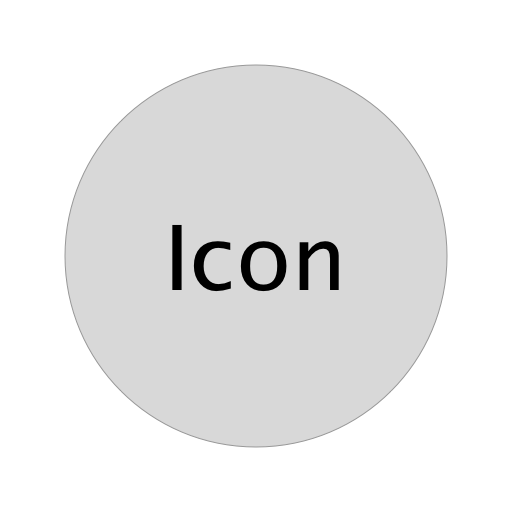
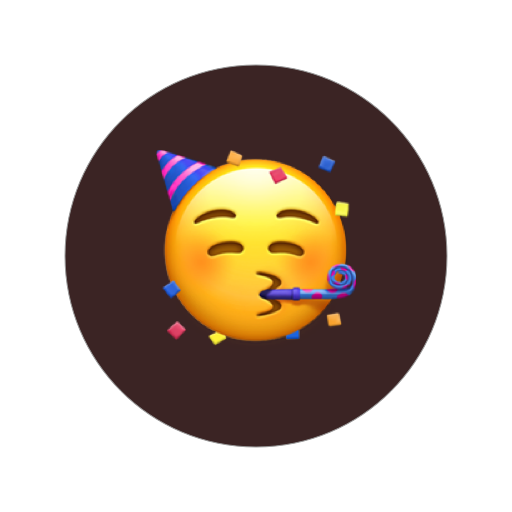
refine ui

diff --git a/src/components/sidebar/index.js b/src/components/sidebar/index.js
@@ -1,50 +1,53 @@
-import React, { useEffect } from "react";
+import React from "react";
 import { Input } from "antd";
 import styles from "./styles.module.scss";
 import { connect } from "react-redux";
 import { updatePosts, updateCurrentReadPostId } from "../../actions";
+import { posts } from "../../reducers/posts";
 
 const { Search } = Input;
 class Sidebar extends React.Component {
   componentDidMount() {
     this.props.dispatch(updatePosts());
   }
-  
-  render(){
+
+  render() {
+    const { posts: articles } = this.props;
     return (
-    <div className={styles.sidebar}>
-      <div className={styles.logoBox}>
-        <img
-          src={`${process.env.PUBLIC_URL}/icon.png`}
-          alt="icon"
-          className={styles.logo}
+      <div className={styles.sidebar}>
+        <div className={styles.logoBox}>
+          <img
+            src={`${process.env.PUBLIC_URL}/icon.png`}
+            alt="icon"
+            className={styles.logo}
+          />
+          <span className={styles.slogan}>こんにちは。</span>
+        </div>
+        <Search
+          placeholder="搜索"
+          onSearch={value => console.log(value)}
+          className={styles.searchbar}
         />
-        <span>こんにちは。</span>
+        <section className={styles.recentPosts}>
+          {articles && articles.all && articles.all.length > 0 && (
+            <span className={styles.recentPostsHeader}>近期文章</span>
+          )}
+          {articles.all.slice(0, 10).map(p => (
+            <div className={styles.postRow} key={p.title}>
+              <span
+                className={styles.postRowTitle}
+                onClick={() => {
+                  this.props.dispatch(updateCurrentReadPostId(p.id));
+                }}
+              >
+                {p.title}
+              </span>
+              <span className={styles.postRowTimestamp}>{p.date.slice(0,10)}</span>
+            </div>
+          ))}
+        </section>
       </div>
-      <Search
-        placeholder="input search text"
-        enterButton="Search"
-        size="large"
-        onSearch={value => console.log(value)}
-      />
-      <section className={styles.recentPosts}>
-        <span className={styles.recentPostsHeader}>近期文章</span>
-        {this.props.posts.all.slice(0, 10).map((p,index) => (
-          <div className={styles.postRow} key={p.title}>
-            <span
-              className={styles.postRowTitle}
-            >
-              <button onClick={() => {
-                this.props.dispatch(updateCurrentReadPostId(p.id));
-              }} />
-              {p.title}
-            </span>
-            <span>{p.date}</span>
-          </div>
-        ))}
-      </section>
-    </div>
-  );
+    );
   }
 }
 

diff --git a/src/components/sidebar/styles.module.scss b/src/components/sidebar/styles.module.scss
@@ -1,26 +1,57 @@
 .sidebar {
-    max-width: 413px;
-    width: 30%;
-    height: 100%;
-    border: 2px solid gray;
-}
-.logo {
-    width: 100%;
+  display: flex;
+  flex-direction: column;
+  justify-content: flex-start;
+  align-items: center;
+  width: 400px;
+  height: 100%;
+  border: 1px solid gray;
+  padding: 40px !important;
 }
 
+// Logo
+.logoBox {
+  text-align: center;
+  .logo {
+    width: 100%;
+  }
+  .slogan {
+    font-size: 18px;
+    font-weight: bold;
+  }
+}
+
+// 搜索
+.searchbar {
+    width: 100% !important;
+    margin: 10px 0 !important;
+}
+
+
+// 近期文章
 .recentPosts {
-    padding: 0 10px 0 10px;
-    .recentPostsHeader {
+    display: flex;
+    flex-direction: column;
+    width: 100%;
+    margin-top: 20px;
+  .recentPostsHeader {
+    font-size: 16px;
+    font-weight: bold;
+    color: black;
+    margin-bottom: 20px;
+  }
+  .postRow {
+    display: flex;
+    flex-direction: column;
+    border-bottom: 1px solid grey;
+    padding-bottom: 10px;
+    margin-bottom: 10px;
+    .postRowTitle {
+        cursor: pointer;
         font-size: 16px;
-        font-weight: bold;
-        color: black;
     }
-    .postRow {
-        display: flex;
-        flex-direction: column;
-        border-bottom: 1px solid grey;
-        .postRowTitle {
-            text-decoration: underline;
-        }
+    .postRowTimestamp {
+       font-size: 12px; 
     }
+  }
 }

diff --git a/src/components/readingPanel/index.js b/src/components/readingPanel/index.js
@@ -6,15 +6,26 @@ class ReadingPanel extends React.Component {
   renderContent = () => {
     const { posts, currentReadPostId } = this.props;
     const post = posts.all.find(p => p.id === currentReadPostId);
+
+    let body;
     if (posts.all.length === 0 || currentReadPostId === "") {
-      return <span>Try find some article to read</span>;
+      body = (
+        <span className={styles.title}>Try find some article to read</span>
+      );
     } else {
-      return <p>{post && post.body || post.description || "404"}</p>;
+      body = <p>{(post && post.body) || post.description || "404"}</p>;
     }
+
+    return (
+      <>
+        <span className={styles.title}>{(post && post.title) || ""}</span>
+        {body || ""}
+      </>
+    );
   };
 
   render() {
-    return this.renderContent();
+    return <div className={styles.readingPanel}>{this.renderContent()}</div>;
   }
 }
 

diff --git a/src/components/readingPanel/styles.module.scss b/src/components/readingPanel/styles.module.scss
@@ -1,0 +1,14 @@
+.readingPanel {
+    width: 1000px;
+    height: 100%;
+    display: flex;
+    flex-direction: column;
+    justify-content: flex-start;
+    align-items: center;
+    padding: 10px 30px;
+    border: 1px solid gray;
+    .title {
+        font-size: 28px;
+        margin: 10px 0;
+    }
+}

diff --git a/src/index.js b/src/index.js
@@ -2,6 +2,8 @@ import React from "react";
 import ReactDOM from "react-dom";
 import App from "./App";
 import "./index.css";
+// FIXME: babel 好像没用
+import "antd/dist/antd.css";
 import * as serviceWorker from "./serviceWorker";
 
 ReactDOM.render(<App />, document.getElementById("root"));

diff --git a/src/index.css b/src/index.css
@@ -6,5 +6,6 @@ html, body {
 
 #root {
     width: 100%;
+    max-width: 1400px;
     height: 100%;
 }
